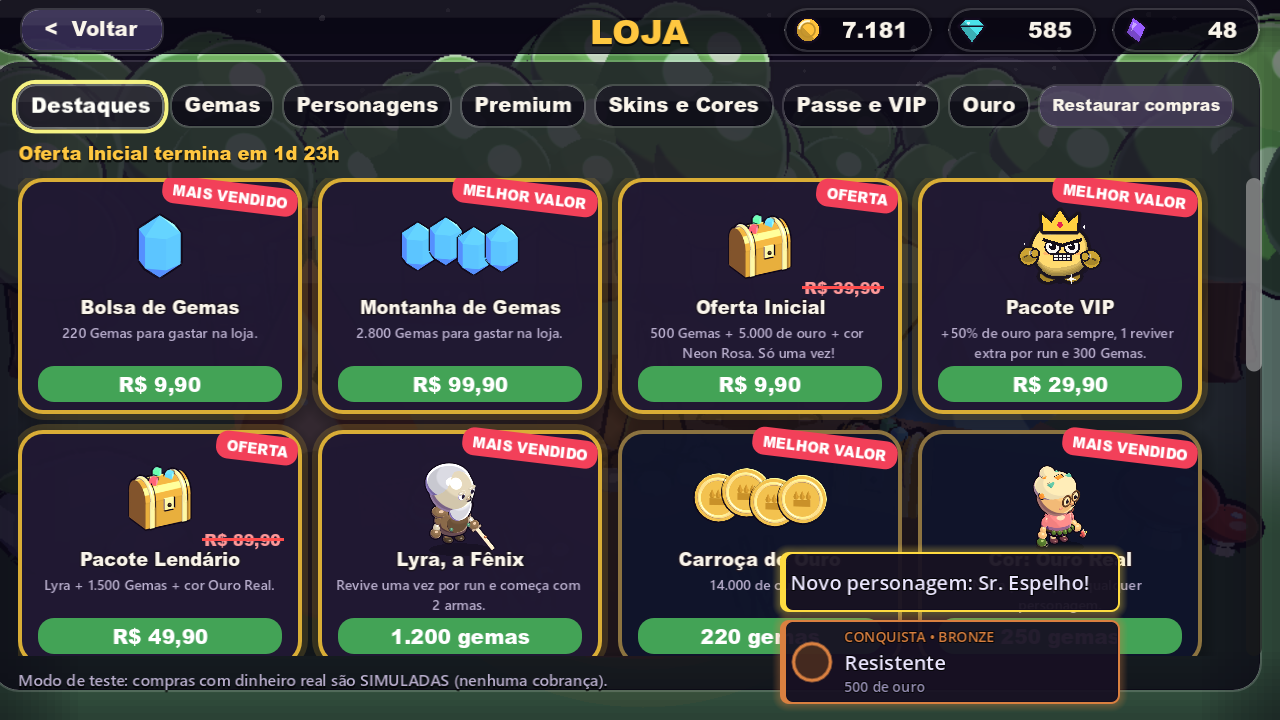
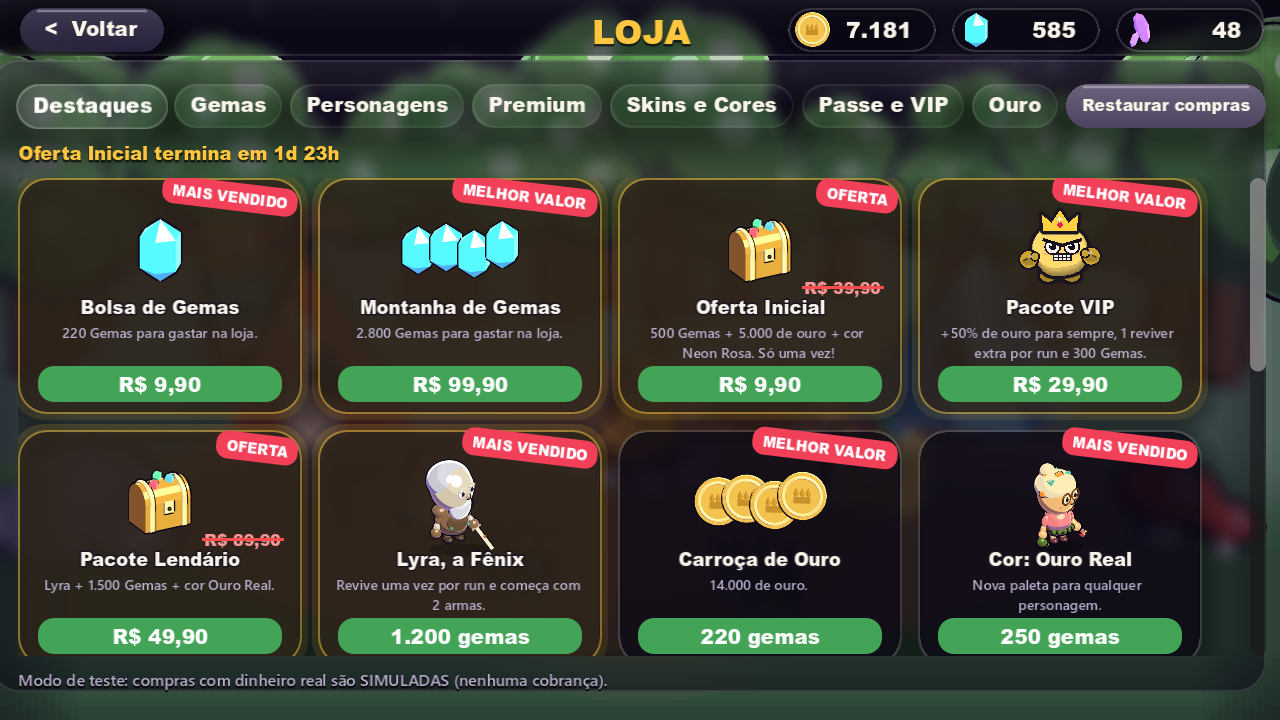
v0.9.6: modo Arena com 4 portões, conquista Senhor dos Portões, loja em vidro

diff --git a/README.md b/README.md
@@ -23,6 +23,8 @@
 | ![Menu principal com a Vovó Granada em destaque](media/menu.png) | ![Tela de escolha do herói com atributos e habilidades](media/herois.png) |
 | **Cartas de level-up** | **Loja** |
 | ![Cartas de level-up para escolher armas e melhorias](media/cartas.png) | ![Loja com skins e acessórios](media/loja.png) |
+| **Modo Arena (4 portões)** | **Dona Zilda em ação** |
+| ![Muralha com portões cercando o campo no modo Arena](media/arena-modo.png) | ![Dona Zilda, a Faxineira Furiosa, com a aura corrosiva](media/zilda.png) |
 | **Dona Zilda em ação** | **Chefe: pancada telegrafada** |
 | ![Dona Zilda, a Faxineira Furiosa, com a aura corrosiva](media/zilda.png) | ![Círculo vermelho de aviso da pancada do Colosso](media/chefe-pancada.png) |
 | **Fusão de armas** | **Recompensa diária** |

diff --git a/CHANGELOG.md b/CHANGELOG.md
@@ -1,5 +1,10 @@
 # Novidades
 
+## v0.9.6 — 15 de outubro de 2026
+
+- **Modo Arena**: uma muralha de pedra com **4 portões** cerca o campo; a horda só entra pelos portões. Sobreviva o máximo que puder (conta como Infinito, com maldições). Conquista nova: **Senhor dos Portões** (10 minutos na Arena).
+- Loja com cards em vidro, no mesmo estilo do resto do jogo.
+
 ## v0.9.5 — 15 de outubro de 2026
 
 - **Heroína nova: Dona Zilda, a Faxineira Furiosa.** Esfregão de plasma na mão, balde na outra. Ativa **Baldada**: joga um balde d'água à frente que empurra, encharca (lentidão) e fere. Passiva **Chão Limpo**: +30% de ímã e +20% de ouro. Desbloqueio por 6.000 de ouro na tela Jogar.
